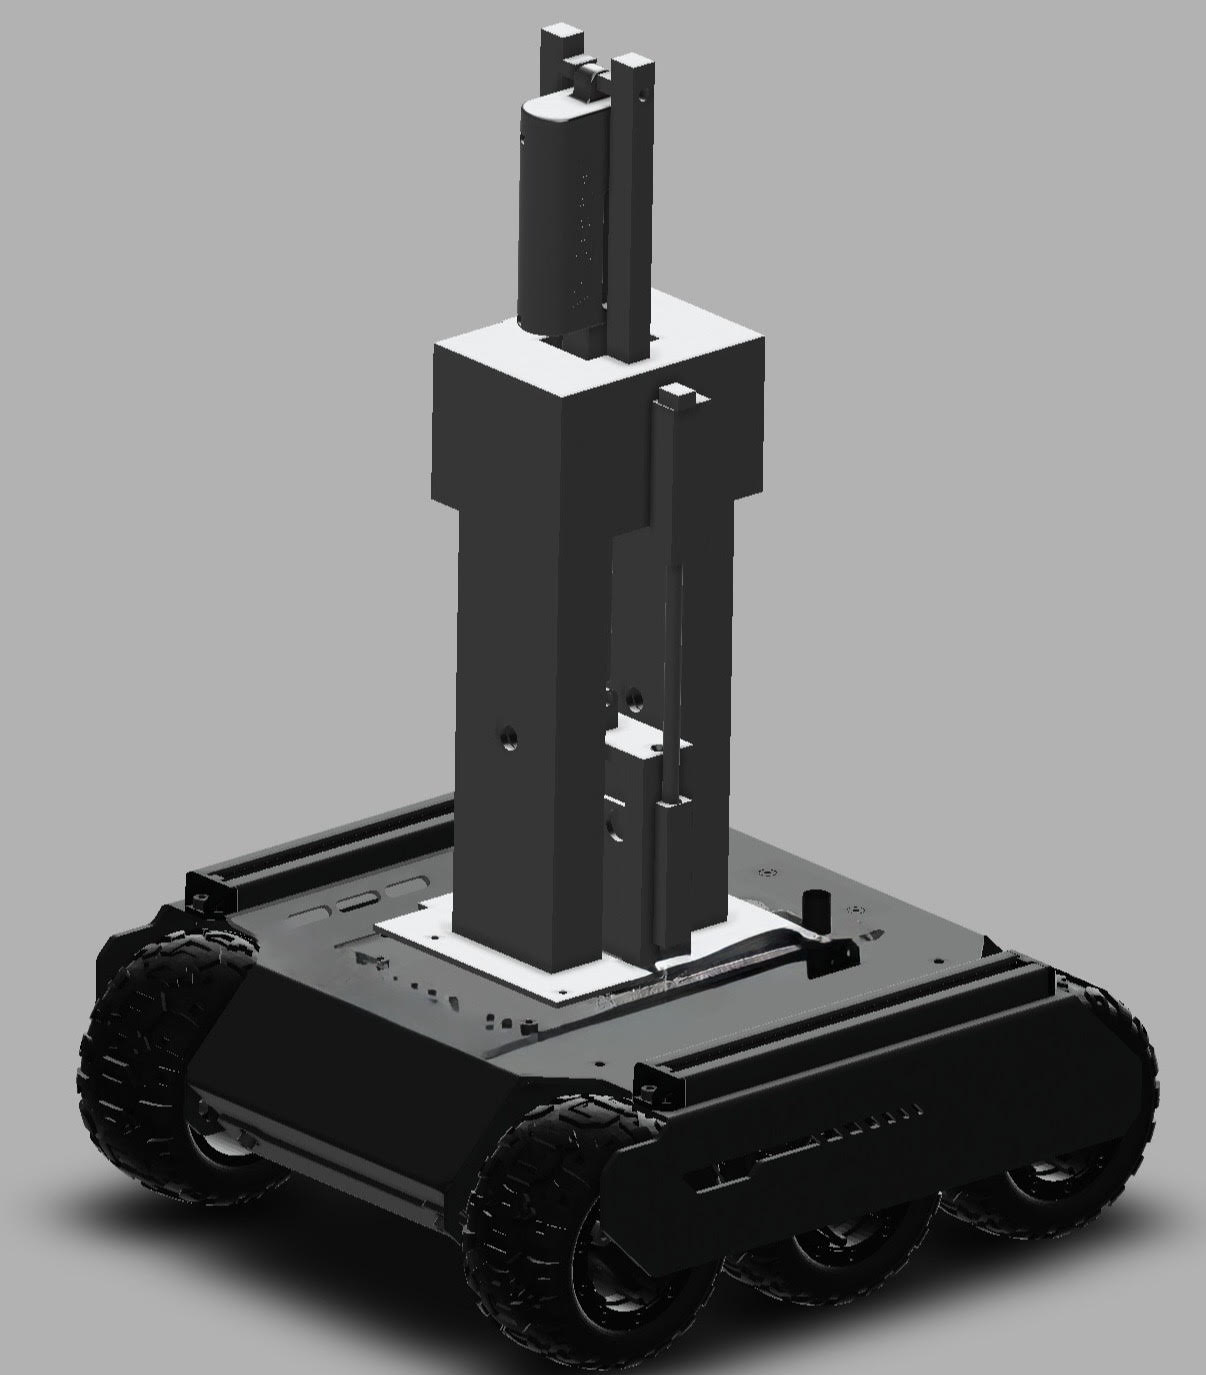
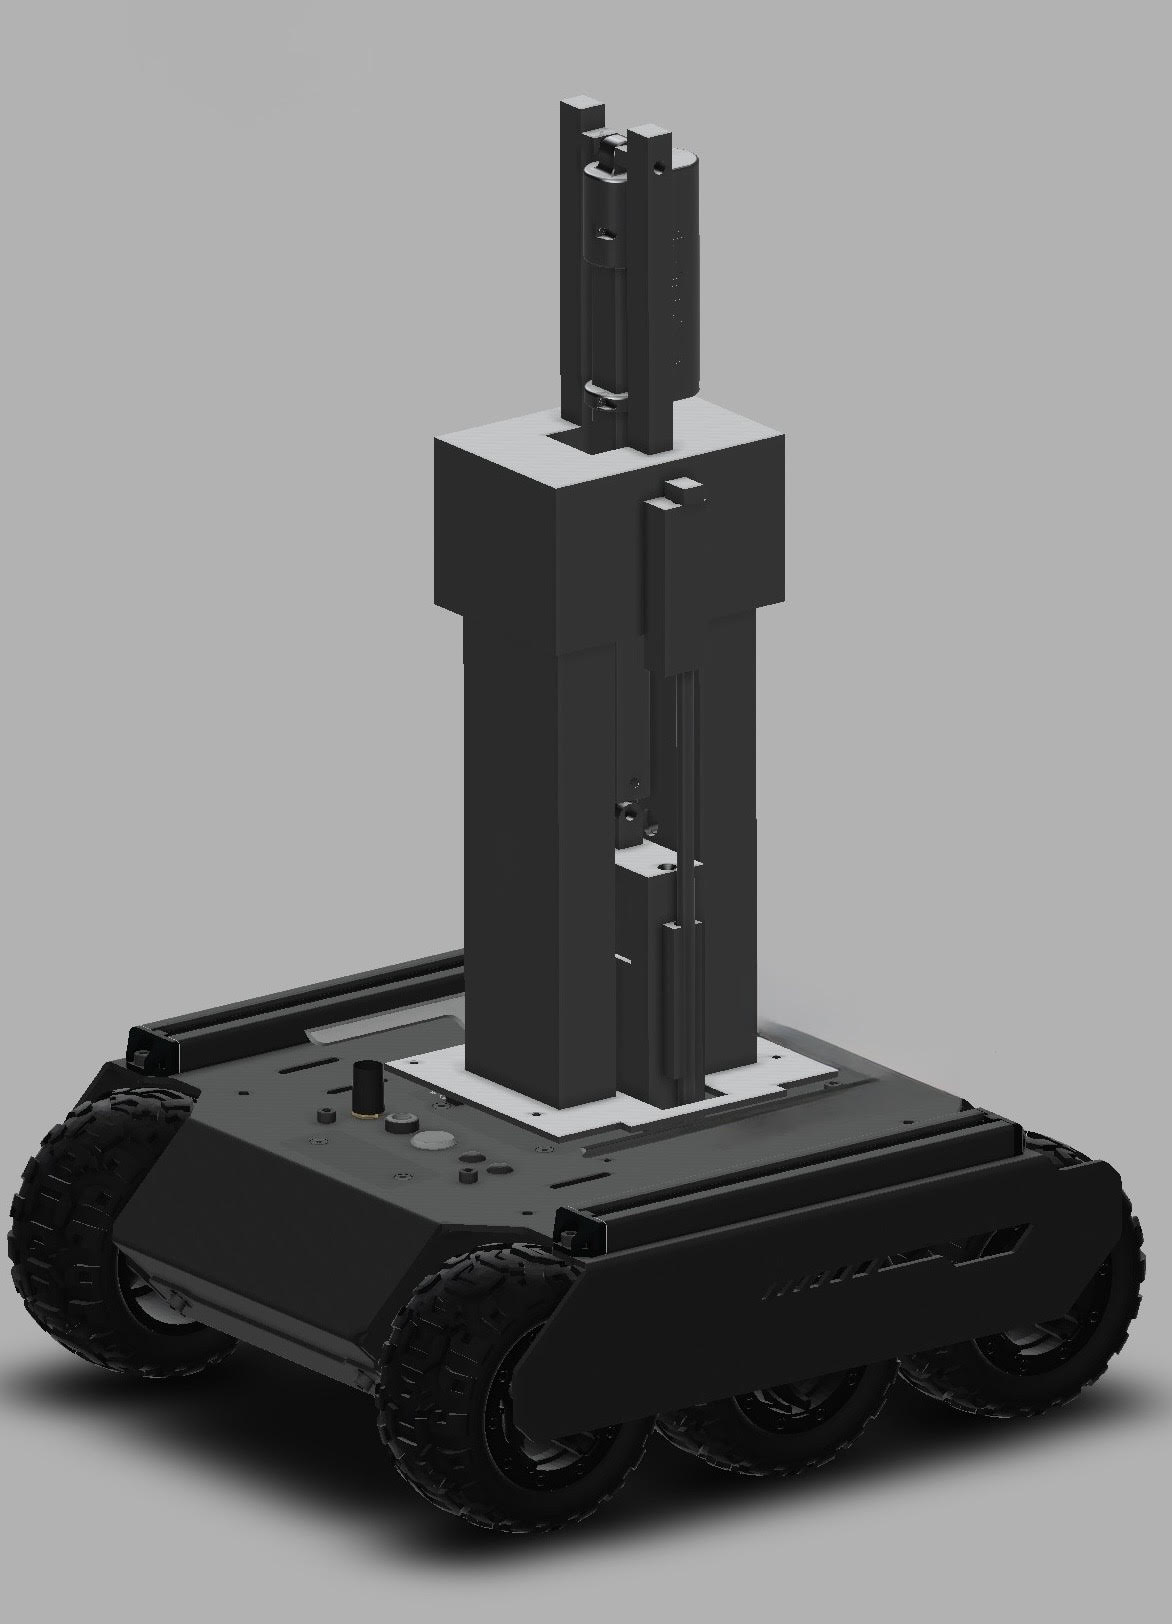
image change

diff --git a/src/Updates.jsx b/src/Updates.jsx
@@ -371,7 +371,7 @@ const MONTHS_DATA = [
   
   <p className="text-slate-400 leading-relaxed mb-6">
   <span className="inline-block w-2 h-2 bg-white rounded-full mr-3 mb-[2px]"></span>
-  July 3rd, 2026: CAD design is now finished and ready for Landon to 3d print.
+  July 3rd, 2026: CAD design is now finished and ready for Landon to 3d print for initial testing.
 </p>
 <img
          
